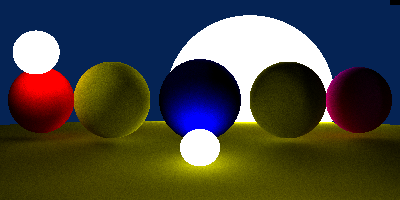
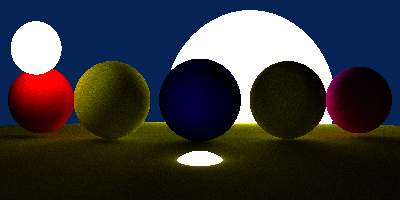
rewrote the sphere collision code to use quadratic formula rather than dot product solution, also did a 1080p 1000spp render although small glitch in top right with black cubes

diff --git a/src/main.rs b/src/main.rs
@@ -74,6 +74,50 @@ impl Ray {
             f64::cos(camera.yaw + ((f_x + 0.5) / camera.width as f64) * camera.fov - camera.fov / 2.0),
         ];
     }
+    fn improved_get_collision(&mut self, sphere: &Sphere) -> Hit{
+        let delta_position = vec![
+            self.origin[0] - sphere.center[0],
+            self.origin[1] - sphere.center[1],
+            self.origin[2] - sphere.center[2],
+        ];
+        let a = self.direction[0] * self.direction[0] + self.direction[1] * self.direction[1] + self.direction[2] * self.direction[2];
+        let b = 2.0 * (delta_position[0] * self.direction[0] + delta_position[1] * self.direction[1] + delta_position[2] * self.direction[2]);
+        let c = delta_position[0] * delta_position[0] + delta_position[1] * delta_position[1] + delta_position[2] * delta_position[2] - sphere.radius * sphere.radius;
+        let discriminant = b * b - 4.0 * a * c;
+        if discriminant < 0.0 {
+            return Hit {
+                distance: -1.0,
+                point: vec![0.0, 0.0, 0.0],
+                normal: vec![0.0, 0.0, 0.0],
+                sphere: sphere.clone(),
+            };
+        }
+        let t = (-b - discriminant.sqrt()) / (2.0 * a);
+        if t < 0.0 {
+            return Hit {
+                distance: -1.0,
+                point: vec![0.0, 0.0, 0.0],
+                normal: vec![0.0, 0.0, 0.0],
+                sphere: sphere.clone(),
+            };
+        }
+        let point = vec![
+            self.origin[0] + self.direction[0] * t,
+            self.origin[1] + self.direction[1] * t,
+            self.origin[2] + self.direction[2] * t,
+        ];
+        let normal = vec![
+            (point[0] - sphere.center[0]) / sphere.radius,
+            (point[1] - sphere.center[1]) / sphere.radius,
+            (point[2] - sphere.center[2]) / sphere.radius,
+        ];
+        Hit {
+            distance: t,
+            point: point,
+            normal: normal,
+            sphere: sphere.clone(),
+        }
+    }
     fn get_collision(&mut self, sphere: &Sphere) -> Hit {
         let delta_position = vec![
             sphere.center[0] - self.origin[0],
@@ -82,7 +126,7 @@ impl Ray {
         ];
 
         let dot_product = delta_position[0] * self.direction[0] + delta_position[1] * self.direction[1] + delta_position[2] * self.direction[2];
-        if dot_product < 0.0 {
+        if dot_product < 0.00001 {
             return Hit {
                 distance: -1.0,
                 point: vec![0.0, 0.0, 0.0],
@@ -105,11 +149,20 @@ impl Ray {
                 sphere: sphere.clone(),
             };
         }
-        let offset = ((sphere.radius.powf(2.0) - distance.powf(2.0)).abs()).sqrt();
+        let offset = (sphere.radius.powf(2.0) - distance.powf(2.0)).sqrt();
+
+        if dot_product - offset < 0.00001 {
+            return Hit {
+                distance: -1.0,
+                point: vec![0.0, 0.0, 0.0],
+                normal: vec![0.0, 0.0, 0.0],
+                sphere: sphere.clone(),
+            };
+        }
         let point = vec![
-            centre_point[0] - self.direction[0] * offset,
-            centre_point[1] - self.direction[1] * offset,
-            centre_point[2] - self.direction[2] * offset,
+            self.origin[0] + self.direction[0] * (dot_product - offset),
+            self.origin[1] + self.direction[1] * (dot_product - offset),
+            self.origin[2] + self.direction[2] * (dot_product - offset),
         ];
         let normal = vec![
             (point[0] - sphere.center[0]) / sphere.radius,
@@ -146,7 +199,7 @@ fn generate_scene() -> Vec<Sphere> {
         });
     }
     spheres.push(Sphere {
-        center: vec![0.0, -1008.0, 10.0],
+        center: vec![0.0, -1008.0, 0.0],
         radius: 1000.0,
         color: vec![0.5, 0.5, 0.0],
         light: 0.0,
@@ -164,8 +217,8 @@ fn generate_scene() -> Vec<Sphere> {
         light: 5.0,
     });
     spheres.push(Sphere {
-        center: vec![0.0, -8.0, -10.0],
-        radius: 3.5,
+        center: vec![0.0, -12.0, -15.0],
+        radius: 5.0,
         color: vec![1.0, 1.0, 1.0],
         light: 5.0,
     });
@@ -201,8 +254,8 @@ fn ray_trace_cube(x_index: u32, y_index: u32, width: u32, height: u32, camera: C
                         sphere: spheres[0].clone(),
                     };
                     for sphere in &spheres {
-                        let hit = ray.get_collision(&sphere);
-                        if hit.distance > 0.00001 && (hit.distance < closest_hit.distance || closest_hit.distance < 0.0) {
+                        let hit = ray.improved_get_collision(&sphere);
+                        if hit.distance > 0.0 && (hit.distance < closest_hit.distance || closest_hit.distance < 0.0) {
                             //let color = (hit.normal[0] * 255.0) as u8;
                             closest_hit = hit;
                         }
@@ -254,16 +307,16 @@ fn ray_trace_cube(x_index: u32, y_index: u32, width: u32, height: u32, camera: C
 
 fn main() {
     let spheres = generate_scene();
-    let width = 400;
-    let height = 200;
-    let cube_width = 5;
-    let cube_height = 5;
+    let width = 1920;
+    let height = 1080;
+    let cube_width = 10;
+    let cube_height = 10;
     let x_cubes = width / cube_width;
     let y_cubes = height / cube_height;
     
-    let threads = 6;
-    let bounces = 10;
-    let samples_per_pixel = 2048;
+    let threads = 20;
+    let bounces = 100;
+    let samples_per_pixel = 1000;
     let mut img = image::Image::blank(width, height);
     let camera = Camera {
         origin: vec![0.0, 0.0, -50.0],
@@ -274,6 +327,9 @@ fn main() {
         height: height,
     };
 
+    let cube = ray_trace_cube(240, 0, 1, 1, camera.clone(), spheres.clone(), samples_per_pixel, bounces);
+
+    print!("{} {} {}", cube.pixels[0][0], cube.pixels[0][1], cube.pixels[0][2]);
     
 
     let (tx, rx) = mpsc::channel();
@@ -317,11 +373,11 @@ fn main() {
 
         println!("{} {}", cube.x_index, cube.y_index);
         count += 1;
-        if count % threads == 0 {
-            image::Image::save_to_file(&mut img, "test7.png");
+        if count % (threads * 1) == 0 {
+            image::Image::save_to_file(&mut img, "test8.png");
         }
         if count == x_cubes * y_cubes {
-            image::Image::save_to_file(&mut img, "test7.png");
+            image::Image::save_to_file(&mut img, "test8.png");
             break;
         }
     }
